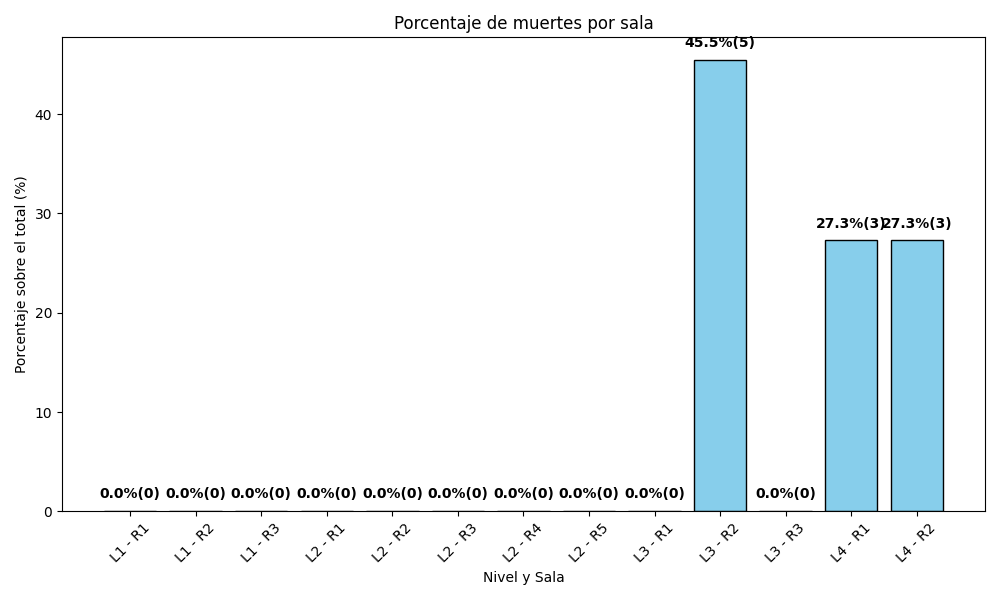
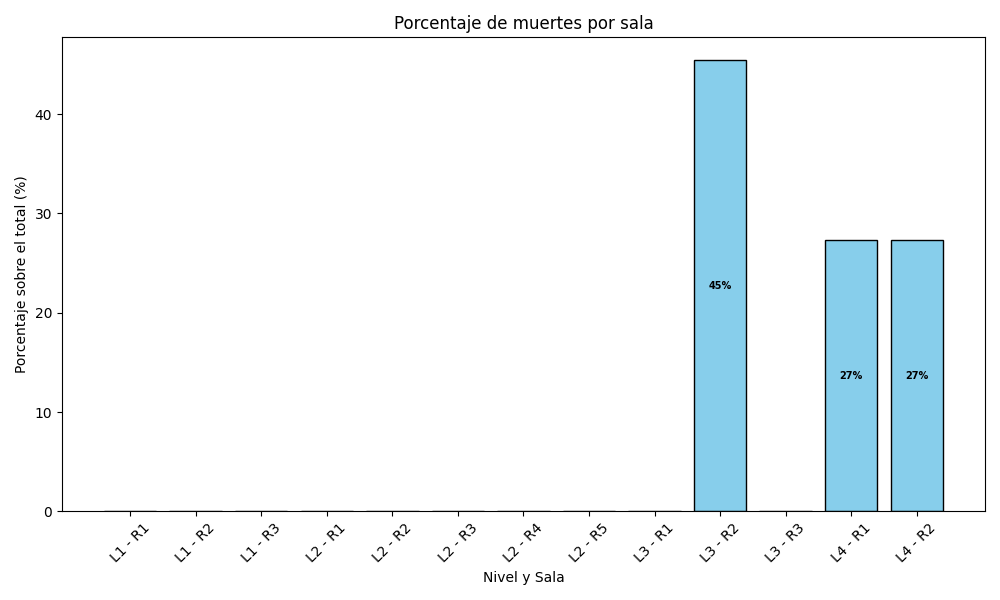
Valores en medio

diff --git a/Metricas/src/Player_Death.py b/Metricas/src/Player_Death.py
@@ -89,6 +89,8 @@ for count in counts:
         pct = 0.0
     percentages.append(pct)
 
+
+
 # Debug útil
 print(f"Archivos leídos: {files_read}")
 print(f"Total Player_Death: {sum(counts)}")
@@ -106,9 +108,9 @@ bars = plt.bar(labels, percentages, color='skyblue', edgecolor='black')
 # Escribir el porcentaje encima de cada barra
 for i, bar in enumerate(bars):
     yval = bar.get_height()
-    # Colocamos el texto justo encima (yval + 1) y centrado
-    plt.text(bar.get_x() + bar.get_width()/2, yval + 1, f'{round(yval, 1)}%({counts[i]})', 
-                ha='center', va='bottom', fontweight='bold')
+    if yval > 0:
+        plt.text(bar.get_x() + bar.get_width()/2, bar.get_y() + yval/2,
+                    f'{percentages[i]:.0f}%', ha='center', va='center', fontsize=7, fontweight='bold', color='black')
 plt.xlabel("Nivel y Sala")
 plt.ylabel("Porcentaje sobre el total (%)")
 plt.title("Porcentaje de muertes por sala")

diff --git a/Metricas/src/Manual_Reset.py b/Metricas/src/Manual_Reset.py
@@ -101,9 +101,10 @@ bars = plt.bar(labels, percentages, color='skyblue', edgecolor='black')
 # Escribir el porcentaje encima de cada barra
 for i, bar in enumerate(bars):
     yval = bar.get_height()
-    # Colocamos el texto justo encima (yval + 1) y centrado
-    plt.text(bar.get_x() + bar.get_width()/2, yval + 1, f'{round(yval, 1)}%({counts[i]})', 
-                ha='center', va='bottom', fontweight='bold')
+    # Colocamos el texto
+    if(yval > 0):
+        plt.text(bar.get_x() + bar.get_width()/2, bar.get_y()+yval/2, f'{round(yval, 1)}%({counts[i]})', 
+                ha='center', va='center',fontsize = 7, fontweight='bold', color = 'black')
 plt.xlabel("Nivel y Sala")
 plt.ylabel("Porcentaje sobre el total (%)")
 plt.title("Porcentaje de resets por sala")

diff --git a/Metricas/src/Room_Time.py b/Metricas/src/Room_Time.py
@@ -134,9 +134,9 @@ bars = plt.bar(labels, counts, color='skyblue', edgecolor='black')
 # Escribir el tiempo encima de cada barra
 for bar in bars:
     yval = bar.get_height()
-    # Colocamos el texto justo encima (yval + 1) y centrado
-    plt.text(bar.get_x() + bar.get_width()/2, yval + 1, f'{round(yval, 1)}s', 
-                ha='center', va='bottom', fontweight='bold')
+    # Colocamos el texto 
+    plt.text(bar.get_x() + bar.get_width()/2, bar.get_y()+yval/2, f'{round(yval, 1)}s', 
+                ha='center', va='center',fontsize = 7, fontweight='bold', color = 'black')
 plt.xlabel("Nivel y Sala")
 plt.ylabel("Tiempo medio por sesión (s)")
 plt.title("Tiempo medio por sala")
